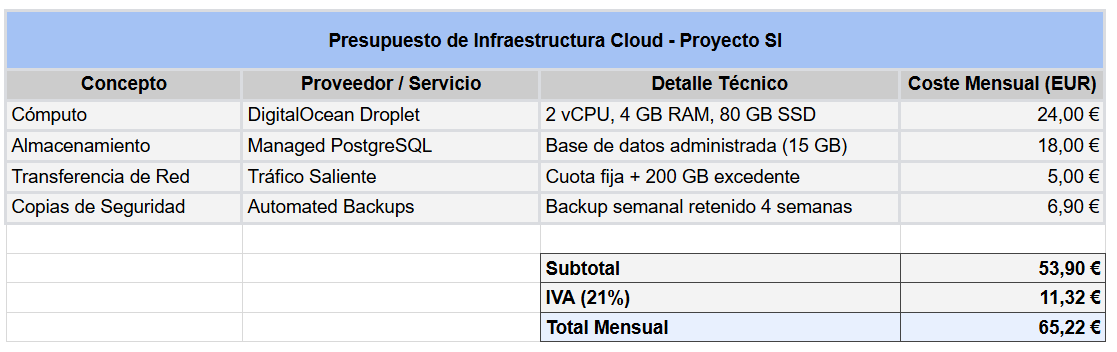
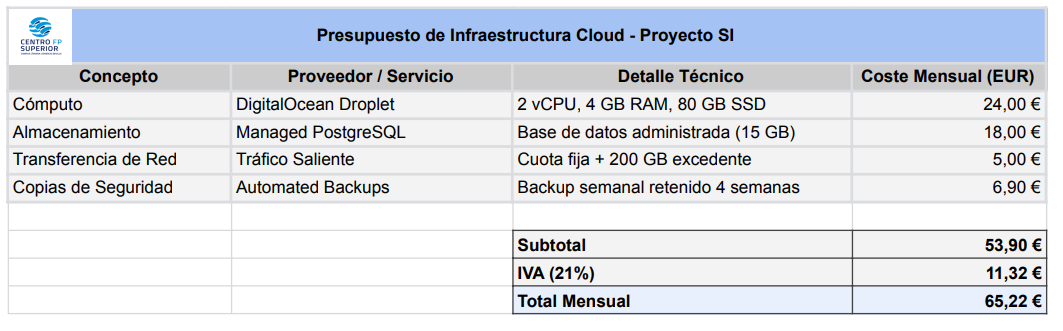
implementacion de la Estimación de Costes de Infraestructura

diff --git a/docs/Memoria_Tecnica_SI_Garcia.md b/docs/Memoria_Tecnica_SI_Garcia.md
@@ -12,13 +12,15 @@
 
 [3\. ¿Por qué elegimos esta solución y no conectar directamente por RDP a cada máquina?	3](#¿por-qué-elegimos-esta-solución-y-no-conectar-directamente-por-rdp-a-cada-máquina?)
 
+[**2. Estimación de Costes de Infraestructura 3**](#análisis-de-necesidades)
+
 ## 
 
 ## 1.  Análisis de necesidades
 
    
 
-## 2.  ¿Qué problema de la empresa resolvemos con Guacamole y Docker?
+**2.  ¿Qué problema de la empresa resolvemos con Guacamole y Docker?**
 
    Podemos resolver problemas como el acceso y el orden a las máquinas de nuestra empresa. Antes nos conectabamos por RDP directamente al equipo entonces hacia que tuviéramos problemas como los siguientes: demasiados puertos abiertos, credenciales repartidas por todas partes, cero control sobre quién entra a qué máquina y una experiencia de uso nada unificada.  
      
@@ -33,9 +35,13 @@
   
 
 
-## 3. ¿Por qué elegimos esta solución y no conectar directamente por RDP a cada máquina?
+**3. ¿Por qué elegimos esta solución y no conectar directamente por RDP a cada máquina?**
 
 Porque es inseguro, difícil de gestionar y también es muy poco práctico. Cada máquina tendría que abrir su puerto, cada técnico tendría que guardar credenciales y no habría forma real de auditar accesos. Además, cada cliente RDP funciona distinto según el sistema operativo, lo que complica el soporte.
 
 Con Guacamole todo se estandariza: una sola interfaz, una sola puerta de entrada y un control centralizado de quién accede a qué.
 
+
+## 2. Estimación de Costes de Infraestructura
+En la siguiente imagen, se muestra el presupuesto realizado en una hoja de calculo, realizado con diferentes funciones de esta como pueden ser calcular el subtotal, IVA, etc...
+![ImagenPresupuesto](../assets/presupuestoInfraestructura.png)
